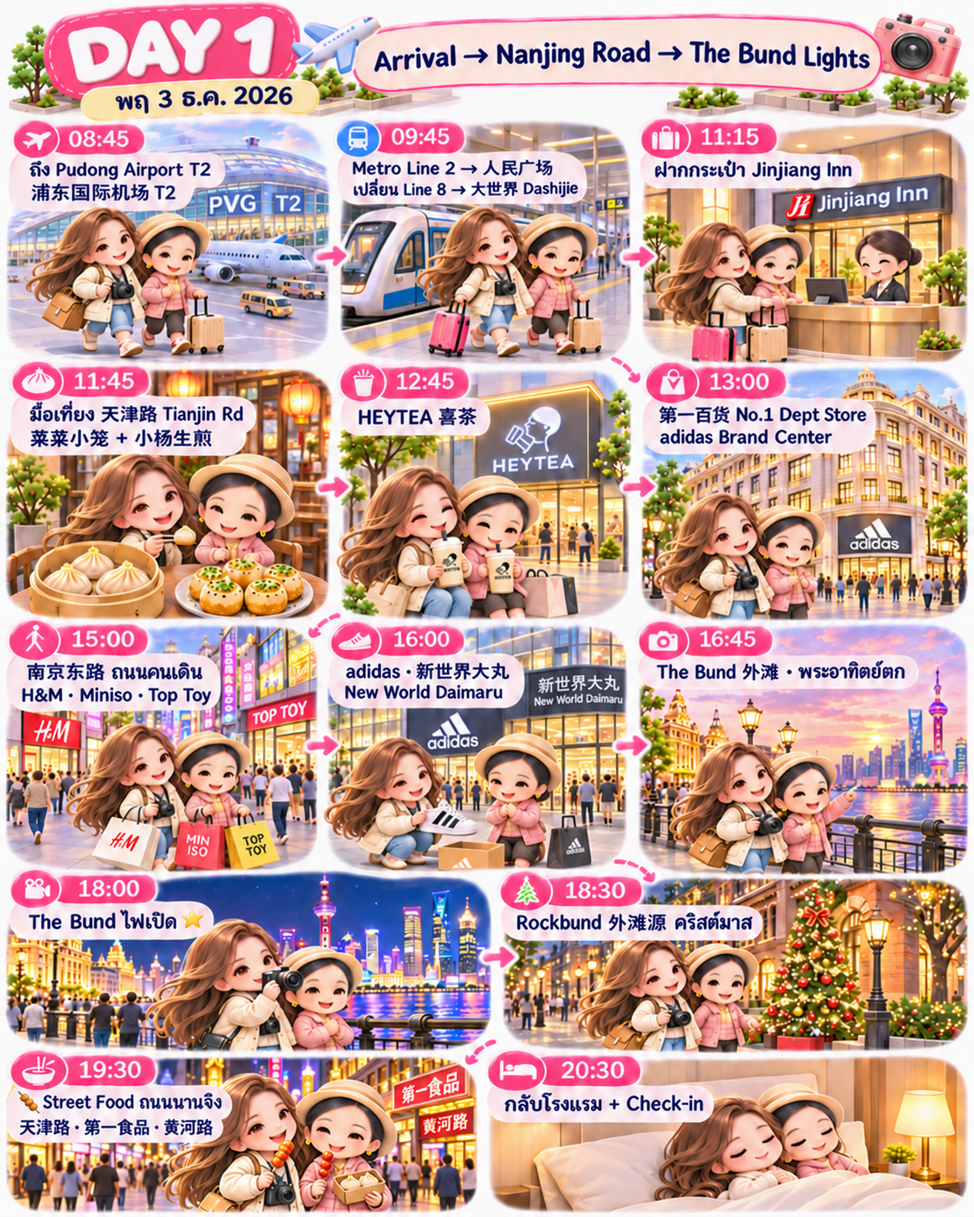
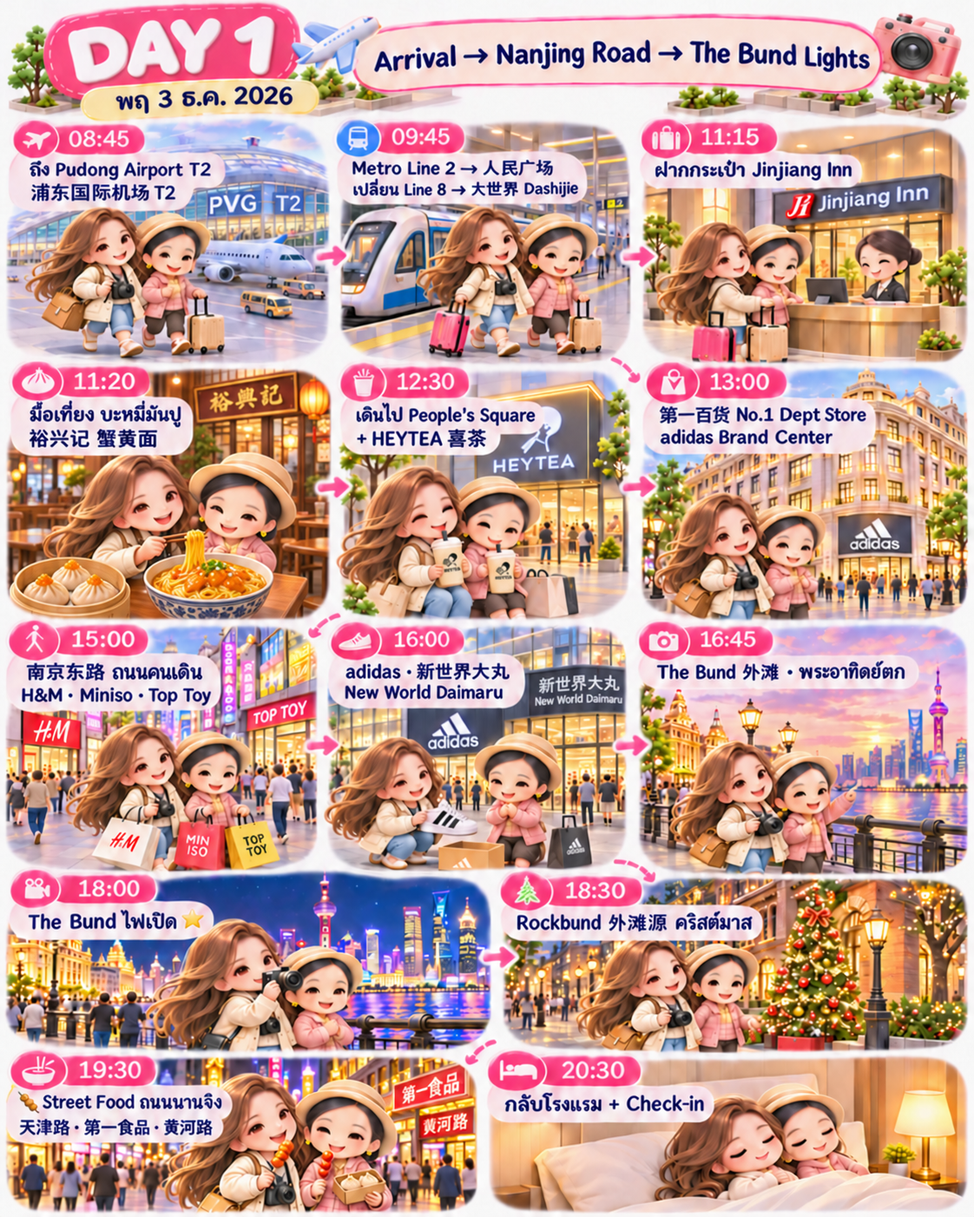
Shanghai: Day 4 seven Bund photo spots, Day 5 Opera House option + People's Square dinner, Day 1 crab noodles, Day 2 UGG, arrival-card QR (names + QR only), redraw Day 1/2/4/5
Also fix Lujiazui to People's Square stop count (2) and add Line 2/7/8 directions.

diff --git a/shanghai/index.html b/shanghai/index.html
@@ -143,6 +143,10 @@
   .foldnote[open]>summary::after{transform:rotate(180deg)}
   .foldnote>div{padding:0 12px 11px}
   .foldnote .p-note{margin-bottom:0;line-height:1.65}
+  .tmqr{display:grid;grid-template-columns:1fr 1fr;gap:10px}
+  .tmqr figure{margin:0;background:#fff;border:1px solid var(--line);border-radius:12px;padding:8px;text-align:center}
+  .tmqr img{width:100%;height:auto;display:block;cursor:zoom-in}
+  .tmqr figcaption{font-size:13px;font-weight:600;line-height:1.35;margin-top:4px}
 
   /* copy chip */
   .cp{display:inline-flex;align-items:center;gap:6px;background:var(--surface);color:var(--ink);border:1px solid var(--line);border-radius:99px;padding:6px 12px;margin:4px 6px 0 0;cursor:pointer;font-size:13px;font-weight:500}
@@ -627,22 +631,21 @@ const CARDS=[
 ];
 
 const DAYS=[
- {id:'1',tab:'DAY 1',date:'Dec 3',emoji:'✈',cardTitle:'Arrival → Tianjin Rd Food → Nanjing Road → The Bund Lights',summary:'PVG 08:45 → Jinjiang Inn → 天津路 Lunch → 第一百货 → Nanjing East Road → The Bund ไฟเปิด → Rockbund',title:'Day 1 — Dec 3 · Arrival → Tianjin Rd Food → Nanjing Road Shopping → The Bund Lights → Rockbund',route:'PVG → 大世界 → 天津路 Tianjin Rd → 第一百货 → 南京东路 → 外滩 The Bund → 外滩源 Rockbund',
+ {id:'1',tab:'DAY 1',date:'Dec 3',emoji:'✈',cardTitle:'Arrival → Tianjin Rd Food → Nanjing Road → The Bund Lights',summary:'PVG 08:45 → Jinjiang Inn → 裕兴记 บะหมี่ปู → 第一百货 → Nanjing East Road → The Bund ไฟเปิด → Rockbund',title:'Day 1 — Dec 3 · Arrival → Tianjin Rd Food → Nanjing Road Shopping → The Bund Lights → Rockbund',route:'PVG → 大世界 → 天津路 Tianjin Rd → 第一百货 → 南京东路 → 外滩 The Bund → 外滩源 Rockbund',
   slots:[
    {t:'03:20–08:45',icon:'✈',label:'Flight 9C7294',note:'BKK → PVG T2 · ออกจากบ้าน 22:00 คืนวันพุธที่ 2 ธ.ค. · เคาน์เตอร์ Spring เปิด 00:20 (3 ชม.ก่อนบิน) ไปรอหน้าเคาน์เตอร์ · เช็ค passport · นอนบนเครื่อง',places:[P('PVG T2 — Shanghai Pudong International Airport','浦东国际机场T2')]},
-   {t:'08:45–09:45',icon:'🛂',label:'ตม. + รับกระเป๋า',note:'กรอก China Arrival Card ไว้ก่อน · ซื้อซิม / เติมบัตรเมโทรที่สนามบินถ้ายังไม่มี'},
+   {t:'08:45–09:45',icon:'🛂',label:'ตม. + รับกระเป๋า',note:'✅ ลงทะเบียน ตม. ออนไลน์แล้ว (12 Nov) · ยื่นพาสปอร์ต + โชว์ QR ในใบ ตม. ด้านล่าง · ถ้าระบบไม่รับ กรอกบัตรกระดาษที่ด่านได้ · ซื้อซิม / เติมบัตรเมโทรที่สนามบินถ้ายังไม่มี',foldtitle:'🛂 ใบ ตม.',foldnote:'<div class="tmqr"><figure><img src="assets/tm_qr_dalif.png" alt="QR ใบ ตม. ดาลิฟ" onclick="zoomImg(\'assets/tm_qr_dalif.png\')"><figcaption>ดาลิฟ<br>DARINDA</figcaption></figure><figure><img src="assets/tm_qr_mom.png" alt="QR ใบ ตม. แม่" onclick="zoomImg(\'assets/tm_qr_mom.png\')"><figcaption>แม่<br>CHOLLAMARK</figcaption></figure></div><div class="muted" style="font-size:12px;margin-top:6px">แตะ QR เพื่อขยาย · ยื่นคู่กับพาสปอร์ตของแต่ละคน</div>'},
    {t:'09:45–11:10',icon:'🚇',label:'Metro · Line 2 → 徐泾东 · Line 8 → 沈杜公路',note:'浦东国际机场 Pudong Airport ขึ้น Line 2 ทิศ 徐泾东 Xujing East → ลง 人民广场 People\'s Square → เปลี่ยน Line 8 ทิศ 沈杜公路 Shendu Highway → 1 สถานี ลง 大世界 Dashijie Exit 5 · ~1 ชม. 25 นาที · มีกระเป๋า + เหนื่อย → DiDi ~1 ชม. แทนได้',places:[P('People’s Square','人民广场'),P('Dashijie','大世界')]},
    {t:'11:15',icon:'🧳',label:'ฝากกระเป๋า',note:'Check-in ได้ 14:00 · ฝากกระเป๋าที่ล็อบบี้ก่อน · ลองขอ early check-in',places:[P('Jinjiang Inn','锦江之星 云南南路293号')]},
-   {t:'11:20–11:40',icon:'🚶',label:'Walk ไปย่านกิน',note:'เดินขึ้นเหนือตาม 云南中路 Yunnan Road ข้าม 南京东路 ไป 天津路 Tianjin Road · ~1.5 กม. ~20 นาที · เหนื่อย → DiDi ~¥15 · (ย่านเดียวกับ food map เก่า — แผนที่นั้นเขียน "หลัง รร. Jinjiang Inn" หมายถึงอีกสาขา)',places:[P('Tianjin Road','天津路')]},
-   {t:'11:45–12:45',icon:'🥟',label:'Lunch ⭐ ของท้องถิ่น',img:'assets/day1-food-map.png',note:'สั่งร้านละนิดแบ่งกัน · Lailai Xiaolong Bao เสี่ยวหลงเปา + Yang\'s Fried Dumpling เซิงเจียน · ร้านสำรอง: Xie Sanbao 蟹三宝 / Autumn Flavor / Fat Girl Noodle',places:[P('Lailai Xiaolong Bao','莱莱小笼'),P('Yang’s Fried Dumpling','小杨生煎'),P('Xie Sanbao','蟹三宝')]},
-   {t:'12:45–13:00',icon:'🧋',label:'Tea',note:'ซื้อ HEYTEA แล้วเดินไปทาง People\'s Square · หรือ Chabaidao 茶百道 ในย่านเดียวกัน',places:[P('HEYTEA','喜茶')]},
+   {t:'11:20–12:30',icon:'🦀',label:'Lunch ⭐ บะหมี่มันปู',note:'裕兴记·蟹黄面馆 (大世界店) · 金陵东路500号 ชั้น 1 Yalong International Plaza · สถานี 大世界 ทางออก 5 เดิน ~4 นาที (ทางเดียวกับโรงแรม) · เปิด 09:00–21:00 · ~¥92/คน · 蟹黄面 บะหมี่มันปู (คลุกตอนร้อนๆ) · 蟹粉小笼包 เสี่ยวหลงเปาปู · 三虾面 บะหมี่กุ้ง · มีเซ็ต 2–3 คน',places:[P('裕兴记·蟹黄面馆 Yuxingji','裕兴记 蟹黄面馆 大世界店')]},
+   {t:'12:30–13:00',icon:'🧋',label:'Walk + Tea',note:'เดินขึ้นเหนือไป People\'s Square / 南京东路 ~15 นาที · แวะซื้อ HEYTEA ระหว่างทาง',places:[P('HEYTEA','喜茶')]},
    {t:'13:00–15:00',icon:'🛍',label:'Shopping ⭐ 第一百货',note:'ห้างเก่าแก่ของเซี่ยงไฮ้ เหมาะกับแม่ · 👟 Adidas ร้านที่มี Shanghai Collection — adidas Brand Center 3 ชั้น (ใหญ่สุดในเอเชียแปซิฟิก) อยู่ในห้างนี้ · ของลิมิเต็ดหมดไว เจอไซส์ที่ชอบซื้อเลย · ฝั่งตรงข้ามมี First Food Hall 第一食品 ซื้อขนมของฝาก',places:[P('Shanghai No.1 Department Store','上海市第一百货商店 南京东路800号'),P('Adidas ร้านที่มี Shanghai Collection · adidas Brand Center','阿迪达斯 南京东路800号 第一百货'),P('First Food Hall','第一食品商店')]},
    {t:'15:00–16:00',icon:'🚶',label:'Walk 南京东路 → ไปทาง Bund',note:'ถนนคนเดิน · Nanjing Road Century Square 世纪广场 · H&M flagship 4 ชั้น · Miniso Land · Top Toy',places:[P('Nanjing Road Century Square','世纪广场'),P('H&M Yuehui Plaza','悦荟广场')]},
    {t:'16:00–16:45',icon:'👟',label:'adidas ⭐',note:'หน้าห้าง 新世界大丸 New World Daimaru · ร้านติดถนนคนเดิน (AMap ระบุ F4 ถ้าไม่เจอขึ้นไปดูชั้น 4) · เปิด 10:00–22:00 · ใกล้ Bund ที่สุด ซื้อตรงนี้ไม่ต้องถือถุงนาน',places:[P('adidas · New World Daimaru','新世界大丸百货 南京东路228号')]},
    {t:'16:45–17:15',icon:'🚶',label:'Walk → The Bund',note:'เดิน ~10 นาที · หาจุดตั้งกล้องก่อน · 🌇 พระอาทิตย์ตก ~16:50 ฟ้าสีน้ำเงินหลังจากนั้นถ่ายสวย',places:[P('The Bund','外滩')]},
    {t:'~18:00',icon:'🎥',label:'The Bund ไฟเปิด ⭐',note:'อัดคอนเทนต์ช่วงไฟค่อยๆ เปิด · เวลาเปิดไฟฤดูหนาว ~18:00 (ไม่มีเวลาทางการ มาก่อน 17:15 ชัวร์สุด) · ลมริมแม่น้ำแรง ~5°C ใส่อุ่นๆ',places:[P('The Bund','外滩')]},
    {t:'18:30–19:30',icon:'🎄',label:'Rockbund คริสต์มาส',note:'ตรอกตึกอิฐสีน้ำตาล 圆明园路 Yuanmingyuan Road · เดินจาก Bund ~10 นาที · ปกติมีงานคริสต์มาส คนเยอะ · ⚠ ใกล้วันไปค้น 外滩源 圣诞 ใน Xiaohongshu ดูว่าเริ่มจัดหรือยัง',places:[P('Rockbund','外滩源'),P('Yuanmingyuan Road','圆明园路')]},
-   {t:'19:30–20:30',icon:'🍢',label:'Street Food ถนนนานจิง ⭐',note:'เดินกินเล่นทางกลับโรงแรม (แบบคลิป "ตะลุยกินสตรีทฟู้ด ถนนหนานจิง") · 天津路 Tianjin Road หลังถนนนานจิง: Lailai Xiaolongbao / Xie Sanbao / Fat Girl Noodle / Chabaidao · 第一食品 First Food Hall ขนมของฝาก · 黄河路 Huanghe Road ใกล้ People\'s Square · ปิดท้าย 云南南路 Yunnan South Road ข้างโรงแรม',places:[P('Tianjin Road','天津路'),P('First Food Hall','第一食品商店'),P('Huanghe Road Food Street','黄河路美食街')]},
+   {t:'19:30–20:30',icon:'🍢',label:'Street Food ถนนนานจิง ⭐',note:'เดินกินเล่นทางกลับโรงแรม (แบบคลิป "ตะลุยกินสตรีทฟู้ด ถนนหนานจิง") · 天津路 Tianjin Road หลังถนนนานจิง: ⭐ Lailai Xiaolongbao + Yang\'s Fried Dumpling (ย้ายมาจากมื้อกลางวัน) / Fat Girl Noodle / Chabaidao (ไม่ต้องกิน Xie Sanbao ซ้ำ — กินบะหมี่ปูตอนเที่ยงแล้ว) · 第一食品 First Food Hall ขนมของฝาก · 黄河路 Huanghe Road ใกล้ People\'s Square · ปิดท้าย 云南南路 Yunnan South Road ข้างโรงแรม',places:[P('Tianjin Road','天津路'),P('First Food Hall','第一食品商店'),P('Huanghe Road Food Street','黄河路美食街')]},
    {t:'~20:30',icon:'🏨',label:'กลับโรงแรม (+ Check-in ถ้ายังไม่ได้รับห้อง)',note:'เดินมาทั้งวัน → DiDi ~10 นาที หรือ Metro: 南京东路 East Nanjing Road ขึ้น Line 2 ทิศ 徐泾东 Xujing East → 1 สถานี ลง 人民广场 People\'s Square → เปลี่ยน Line 8 ทิศ 沈杜公路 Shendu Highway → ลง 大世界 Dashijie Exit 5',places:[P('Jinjiang Inn','锦江之星 云南南路293号')]},
   ]},
  {id:'2',tab:'DAY 2',date:'Dec 4',emoji:'🛍',cardTitle:'Wukang/Tai\'an → Anfu → Huaihai → Xintiandi',summary:'Wukang/Tai\'an (early photos + Grayfleece) → Anfu → HAUS NOWHERE → Xintiandi',title:'Day 2 — Dec 4 · Wukang/Tai\'an (early photos + Grayfleece) → Anfu → Huaihai → Xintiandi',route:'武康路 Wukang Rd → 泰安路 Tai\'an Rd → 安福路 Anfu Rd → Xintiandi',
@@ -660,7 +663,7 @@ const DAYS=[
    {t:'15:30',icon:'🏙',label:'Explore',places:[P('Youth Energy Center','')]},
    {t:'16:00',icon:'👗',label:'Shopping',note:'ตรงข้าม Youth Energy Center',places:[P('Maison Prince','')]},
    {t:'16:30',icon:'🚕',label:'Didi',note:'→ Xintiandi',places:[P('Xintiandi','新天地')]},
-   {t:'18:00',icon:'🌆',label:'Explore',places:[P('Xintiandi','新天地')]},
+   {t:'18:00',icon:'🌆',label:'Explore + UGG 👢',note:'👢 แวะ UGG Flagship แห่งแรกในจีน (3 ชั้น · ชั้น 2 รองเท้าคลาสสิก/รุ่นใหม่ · ชั้น 3 ของร่วมดีไซเนอร์จีน) · ค้น AMap: UGG 新天地 (เช็คว่ายังเปิดอยู่ · หน้าหนาวไซส์หมดไว เทียบราคาไทยก่อนซื้อ)',places:[P('Xintiandi','新天地'),P('UGG Flagship Xintiandi','UGG 新天地')]},
    {t:'18:30',icon:'🍜',label:'Dinner + Shopping',places:[P('Xintiandi','新天地')]},
    {t:'21:00',icon:'🚇',label:'Metro · Line 10 → 基隆路 Jilong Road',note:'Xintiandi → Laoximen · เปลี่ยน Line 8 → 市光路 → Dashijie',places:[P('Laoximen','老西门'),P('Dashijie','大世界')]},
    {t:'~21:30',icon:'🏨',label:'Hotel',places:[P('Jinjiang Inn','锦江之星 云南南路293号')]},
@@ -689,11 +692,15 @@ const DAYS=[
   ]},
  {id:'4',tab:'DAY 4',date:'Dec 6',emoji:'🛕',cardTitle:'Bund Morning → Longtime Ago → Longhua → Jing’an → Yuyuan',summary:'Bund ช่วงเช้า → Longtime Ago → Longhua → Jing’an → West Nanjing → Yuyuan',title:'Day 4 — Dec 6 · Bund Morning → Longtime Ago → Longhua → Jing’an → West Nanjing → Zhangyuan → Yuyuan',route:'外滩 Bund ช่วงเช้า → 第一百货 Longtime Ago → Longhua 龙华 → Jing’an → Yuyuan 豫园',
   slots:[
-   {t:'07:30',icon:'🚶',label:'ออกจากโรงแรม',note:'แต่งตัวอุ่นๆ: เสื้อคลุม + ผ้าพันคอ + ถุงมือ · เดิน Jinjiang Inn → 外滩 The Bund ~20 นาที (ฝั่ง 南京东路 East Nanjing Road) · ไม่ต้องตื่นดูพระอาทิตย์ขึ้น',places:[P('The Bund','外滩')]},
-   {t:'08:00–09:00',icon:'📸',label:'The Bund ช่วงเช้า ⭐',note:'แดดเช้าส่องตึกเก่าฝั่ง Bund สวยสุดของวัน (ถ่ายคน+ตึกไม่ย้อนแสง) · 和平饭店 Peace Hotel · 海关大楼 Customs House หอนาฬิกา · 汇丰银行 HSBC Building · วันอาทิตย์เช้าคนยังน้อย',img:'assets/day4-shoothing Location.png',places:[P('外滩 The Bund',''),P('和平饭店 Peace Hotel',''),P('海关大楼 Customs House','')]},
-   {t:'09:00–09:45',icon:'📸',label:'Photo',note:'外白渡桥 Waibaidu Bridge สะพานเหล็ก → 外滩源 Rockbund โบสถ์อิฐแดง / ตรอก 圆明园路 (ถ้าประดับคริสต์มาสแล้ว ตอนเช้าไม่มีคนบัง) → 乍浦路桥 Zhapu Road Bridge',places:[P('外白渡桥 Waibaidu Bridge',''),P('外滩源 Rockbund','圆明园路')]},
-   {t:'09:45–10:30',icon:'☕',label:'Cafe / พักขา',note:'นั่งพักคาเฟ่แถว 外滩源 Rockbund · ☕ 沩 flower coffee bar (ใกล้ 乍浦路桥 · เช็คเวลาเปิดใน AMap) · กินเบาๆ เก็บท้องไว้มื้อเที่ยง · 🔴 แม่เหนื่อย → เดินกลับพักโรงแรมก่อนได้'},
-   {t:'10:30–10:55',icon:'🚶',label:'Walk → 第一百货',note:'เดิน 南京东路 East Nanjing Road ถนนคนเดิน ~1.5 กม. ~20–25 นาที → ห้าง 第一百货 ตึก B ชั้น 6 · ไปรอหน้าร้านก่อนเปิด',places:[P('Shanghai No.1 Department Store','上海市第一百货商店 南京东路800号')]},
+   {t:'07:30',icon:'🚶',label:'ออกจากโรงแรม',note:'แต่งตัวอุ่นๆ: เสื้อคลุม + ผ้าพันคอ + ถุงมือ · เดิน Jinjiang Inn → 外滩 The Bund ~20 นาที · วันนี้เก็บ 7 มุมถ่ายรูปยอดฮิต Bund (ตามโพสต์เพจเซี่ยงไฮ้ก็แค่ปากซอย)',places:[P('The Bund','外滩')]},
+   {t:'08:00–08:45',icon:'📸',label:'③ จุดชมวิว Bund ⭐',note:'外滩观景平台 · วิว Lujiazui เต็มๆ · แดดเช้าส่องตึกเก่าฝั่ง Bund สวยสุด · 和平饭店 Peace Hotel · 海关大楼 Customs House · 汇丰银行 HSBC',img:'assets/day4-shoothing Location.png',places:[P('外滩观景平台 The Bund Viewing Platform','外滩观景平台'),P('和平饭店 Peace Hotel','')]},
+   {t:'08:45–09:00',icon:'📸',label:'④ อนุสาวรีย์วีรชน',note:'人民英雄纪念塔 · ปลายเหนือ Bund · ถ่ายกับ "สามตึกดัง" 上海三件套 พื้นที่โล่ง จัดเฟรมง่าย',places:[P('人民英雄纪念塔 People’s Heroes Monument','人民英雄纪念塔')]},
+   {t:'09:00–09:20',icon:'📸',label:'Waibaidu → Rockbund',note:'外白渡桥 Waibaidu Bridge สะพานเหล็ก → 外滩源 Rockbund โบสถ์อิฐแดง / ตรอก 圆明园路',places:[P('外白渡桥 Waibaidu Bridge',''),P('外滩源 Rockbund','圆明园路')]},
+   {t:'09:20–09:50',icon:'📸',label:'⑤ พิพิธภัณฑ์ไปรษณีย์ ⭐',note:'上海邮政博物馆 · ข้าม Suzhou Creek · มุมดัง: ถ่ายผ่านซุ้มประตูใหญ่ให้หอไข่มุก 东方明珠 อยู่กลางกรอบ · เข้าฟรี · เปิด 09:00–17:00 เฉพาะ พ./พฤ./ส./อา. (วันนี้วันอาทิตย์ ✅)',places:[P('上海邮政博物馆 Shanghai Postal Museum','上海邮政博物馆')]},
+   {t:'09:50–10:15',icon:'📸',label:'⑥ มุมสามตึก (ตัดได้)',note:'长治路与九龙路交叉口 · เดินไปทางตะวันออก ~15 นาที · วิว "สามตึกดัง" 上海三件套 แบบใกล้ๆ · 🔴 (ตัดได้) แม่ล้า → ข้ามไปพักคาเฟ่แถว Rockbund แทน',places:[P('长治路与九龙路交叉口','长治路与九龙路交叉口')]},
+   {t:'10:15–10:25',icon:'🚕',label:'Didi',note:'长治路九龙路 → 沙美大楼 Shamei Building · ~10 นาที',places:[P('沙美大楼 Shamei Building','沙美大楼')]},
+   {t:'10:25–10:35',icon:'📸',label:'① Shamei Building',note:'沙美大楼 · อาคารเซี่ยงไฮ้คลาสสิก ต้นถนน 北京东路 · ถ่ายจากข้างนอก (Afternoon tea บนดาดฟ้าเปิดสาย)',places:[P('沙美大楼 Shamei Building','沙美大楼')]},
+   {t:'10:35–11:00',icon:'🚶',label:'② เดินถนนปักกิ่ง → 第一百货',note:'北京东路 Beijing East Road · ตึกเก่าสไตล์ Old Shanghai ผสมตึกใหม่ (แทนการเดิน 南京东路) · เดินไปทางตะวันตกจนถึง 西藏中路 แล้วเลี้ยวไป 第一百货 ~2 กม. · เดินไม่ทัน 11:00 → DiDi ช่วงท้าย',places:[P('北京东路 Beijing East Road','北京东路'),P('Shanghai No.1 Department Store','上海市第一百货商店 南京东路800号')]},
    {t:'11:00–12:00',icon:'🍢',label:'Lunch ⭐ Longtime Ago',note:'很久以前羊肉串 (南京路第一百货店) · 第一百货 ตึก B ชั้น 6 · เปิด 11:00 ไปตอนเปิดคิวสั้น (ตอนเย็นคิวเกิน 200) · ~¥99/คน · เนื้อแกะเสียบไม้ ผักย่าง ข้าวโพดหวาน · ⚠ เช็คเวลาเปิดใน AMap/Dianping ก่อนไป',places:[P('很久以前羊肉串 Longtime Ago','很久以前羊肉串 南京路第一百货店')]},
    {t:'12:15–13:00',icon:'🚇',label:'Metro → Longhua',note:'人民广场 People\'s Square ขึ้น Line 1 ทิศ 莘庄 Xinzhuang → 5 สถานี ลง 徐家汇 Xujiahui → เปลี่ยน Line 11 ทิศ 迪士尼 Disney Resort → 2 สถานี ลง 龙华 Longhua · ~30–40 นาที · ยืนยันใน AMap · หรือ DiDi',places:[P('People’s Square','人民广场'),P('Longhua','龙华')]},
    {t:'13:00–14:00',icon:'🛕',label:'Longhua',note:'วัดหลงหัว + เจดีย์ · ถ่ายรูป',places:[P('Longhua Temple','龙华寺')]},
@@ -724,14 +731,15 @@ const DAYS=[
    {t:'13:55–15:30',icon:'🛍',label:'City Walk ⭐ 巨富长 Julu · Fumin · Changle',note:'(กิน New Sukiyaki แล้ว ไม่ต้องแวะกินข้าวเที่ยง Junfu Canteen) · เดินลงใต้ตาม 富民路 Fumin Road (เลขที่เพิ่มขึ้นเรื่อยๆ) → แยก 巨鹿路 Julu Road → จบที่ 长乐路 Changle Road · แตะ note ดูหมุดครบ 8 จุด',places:[P('Julu Road','巨鹿路'),P('Fumin Road','富民路'),P('Changle Road','长乐路')],foldnote:'<b>巨富长 Julu × Fumin × Changle</b> — เดินลงใต้ตาม 富民路 Fumin Road เลขที่เพิ่มขึ้นเรื่อยๆ<br><br>① <b>富民路38号 Suzie\'s Garden</b> — ไวน์บาร์ + เบเกอรี่ · เปิด 11:30<br>② <b>富民路83-3号 MEL BOURNE 猫尔本</b> — บรันช์คาเฟ่ ถ่ายรูปหน้าร้าน · เปิด 10:00–22:00 · ~¥154/คน<br>③ <b>แยก 巨鹿路 Julu Road</b> — เลี้ยวเดินเล่นถ่ายรูปสั้นๆ แล้วกลับมา 富民路 Fumin Road<br>④ <b>富民路160号 旬福食堂 Junfu Canteen</b> — 🍜 ข้าวเที่ยง แกงกะหรี่ซุปฮอกไกโด · ⚠ คิวยาว รอเกิน 20 นาทีเปลี่ยนร้าน<br>⑤ <b>富民路184号 LABELHOOD 蕾虎</b> — ร้านรวมแบรนด์ดีไซเนอร์จีน 4 ชั้น<br>⑥ <b>富民路 保罗花园 Paul Garden</b> — ANNAKIKI ร้านแฟล็กชิป<br>⑦ <b>富民路210弄 SLAB TOWN 石板城咖啡</b> — คาเฟ่ในวิลล่าเก่า หัวมุม 长乐路 Changle Road · แวะพักขาก่อนเดินต่อ<br>⑧ <b>เลี้ยวเดิน 长乐路 Changle Road</b>'},
    {t:'15:30–15:45',icon:'🚶',label:'Walk',note:'จาก 长乐路 Changle Road → ค้น AMap 「衡山路8号」 Hengshan Rd. No.8 · เดินลงใต้ข้าม 淮海中路 Middle Huaihai Road ~20 นาที'},
    {t:'15:45–16:25',icon:'🍁',label:'City Walk 衡山路',note:'衡山路 Hengshan Road เดินลงใต้ไปเรื่อยๆ: ① 衡山路8号 Hengshan Rd. No.8 → ② 永平里 Yongpingli (ดังเรื่องกุหลาบ ธันวาไม่บาน) → ③ 衡山坊 Hengshan Fang · ⏳ ถ้าแม่ล้า: เดินถึง 永平里 Yongpingli พอ แล้วเรียก DiDi ไป 思南公馆 Sinan Mansions',places:[P('Hengshan Road','衡山路')]},
-   {t:'16:25–16:45',icon:'🚇',label:'Metro',note:'ขึ้นที่ 衡山路 Hengshan Road Line 1 ทิศ 富锦路 Fujin Road → 2 สถานี ลง 陕西南路 Shaanxi South Road → เปลี่ยน Line 10 ทิศ 基隆路 Jilong Road → 1 สถานี ลง 新天地 Xintiandi · ยืนยันใน AMap · เดินต่อไป Sinan ~10 นาที (หรือ DiDi ~10 นาที)',places:[P('Hengshan Road','衡山路'),P('Xintiandi','新天地')]},
-   {t:'16:50–17:20',icon:'📸',label:'Sinan Mansions ⭐',note:'复兴中路 Middle Fuxing Road / 思南路 Sinan Road · บ้านวิลล่าอิฐแดงยุค 1920s · 🌇 อาทิตย์ตก ~16:50 · เดินจากสถานี 新天地 Xintiandi ~10 นาที',places:[P('思南公馆 Sinan Mansions','思南路')]},
+   {t:'16:25–16:45',icon:'🚇',label:'Metro (หรือ 🎭 Opera House ตัดได้)',note:'🎭 ทางเลือก (ตัดได้): ไปถ่ายรูปตึก 上海大歌剧院 Shanghai Grand Opera House จากข้างนอก (ฟรี ไม่ต้องจอง · ตึกรูปพัดจีน สวยสุดช่วงพระอาทิตย์ตก/ไฟเปิด) แทน Sinan → เดินไปสถานี 常熟路 Changshu Road → Line 7 ทิศ 花木路 Huamu Road สายเดียวไป 后滩 Houtan ทางออก 4 เดิน ~860 ม. · ถ่ายรูปริมแม่น้ำ ~17:00–17:40 · เสร็จแล้ว DiDi ไป 陆家嘴 Lujiazui ~20 นาที (ข้ามช่วงพักโรงแรม) · ไม่ทัน/เหนื่อย → ไป Sinan ตามเดิม ▸ เส้นทางเดิม: ขึ้นที่ 衡山路 Hengshan Road Line 1 ทิศ 富锦路 Fujin Road → 2 สถานี ลง 陕西南路 Shaanxi South Road → เปลี่ยน Line 10 ทิศ 基隆路 Jilong Road → 1 สถานี ลง 新天地 Xintiandi · ยืนยันใน AMap · เดินต่อไป Sinan ~10 นาที (หรือ DiDi ~10 นาที)',places:[P('Hengshan Road','衡山路'),P('Xintiandi','新天地')]},
+   {t:'16:50–17:20',icon:'📸',label:'Sinan Mansions ⭐',note:'(ถ้าไป Opera House → ข้ามช่วงนี้) · 复兴中路 Middle Fuxing Road / 思南路 Sinan Road · บ้านวิลล่าอิฐแดงยุค 1920s · 🌇 อาทิตย์ตก ~16:50 · เดินจากสถานี 新天地 Xintiandi ~10 นาที',places:[P('思南公馆 Sinan Mansions','思南路')]},
    {t:'17:20–17:35',icon:'🚕',label:'Didi',note:'思南公馆 Sinan Mansions → Jinjiang Inn · ~10 นาที',places:[P('Jinjiang Inn','锦江之星 云南南路293号')]},
    {t:'17:35–17:45',icon:'🏨',label:'Rest',note:'พักโรงแรม · วางถุงช้อป'},
    {t:'17:50',icon:'🚇',label:'Metro',note:'ขึ้นที่ 大世界 Dashijie → ลงที่ 陆家嘴 Lujiazui · 2 สถานี ไม่ต้องเปลี่ยนสาย',places:[P('Dashijie','大世界'),P('Lujiazui','陆家嘴')]},
-   {t:'18:05–19:30',icon:'🌃',label:'Night View',note:'ไฟเปิดครบ · เดิน skywalk วงแหวน ถ่าย skyline · Shanghai Tower / Jin Mao Tower / Oriental Pearl 东方明珠 — ไม่ต้องขึ้นตึก เดินถ่ายรูปพอ',places:[P('陆家嘴 Lujiazui','')]},
-   {t:'19:30–20:30',icon:'🍜',label:'Dinner',note:'ฟู้ดคอร์ท · 💡 ถ้าราคาสูงไป กลับไปกินแถวโรงแรม 云南南路 South Yunnan Road ก็ได้ · 🍢 ทางเลือก: แม่อยากเดินสตรีทฟู้ดอีกรอบ → Line 2 陆家嘴 → 南京东路 1 สถานี เดินกินถนนนานจิง / 天津路 แล้วเดินกลับโรงแรม',places:[P('正大广场 Super Brand Mall','')]},
-   {t:'20:45',icon:'🚇',label:'Metro',note:'ขึ้นที่ 陆家嘴 Lujiazui → ลงที่ 大世界 Dashijie · 2 สถานี',places:[P('Lujiazui','陆家嘴'),P('Dashijie','大世界')]},
+   {t:'18:05–19:15',icon:'🌃',label:'Night View',note:'ไฟเปิดครบ · เดิน skywalk วงแหวน ถ่าย skyline · Shanghai Tower / Jin Mao Tower / Oriental Pearl 东方明珠 — ไม่ต้องขึ้นตึก เดินถ่ายรูปพอ',places:[P('陆家嘴 Lujiazui','')]},
+   {t:'19:15–19:30',icon:'🚇',label:'Metro · Line 2',note:'陆家嘴 Lujiazui ขึ้น Line 2 ทิศ 徐泾东 Xujing East → 2 สถานี (南京东路 → 人民广场) ลง 人民广场 People\'s Square · ทางกลับโรงแรมอยู่แล้ว เปลี่ยน Line 8 ที่นี่',places:[P('Lujiazui','陆家嘴'),P('People’s Square','人民广场')]},
+   {t:'19:30–20:30',icon:'🐟',label:'Dinner ⭐ 酸菜鱼',note:'ร้านอาหารจีนหัวมุม ในทางเดินใต้ดินสถานี 人民广场 ใกล้ทางออก 11 (ทางออกไปร้านขนมปังผีเสื้อคิวยาว) · 🐟 酸菜鱼 ต้มปลาผักกาดดอง ~¥30 · 青椒肉丝 หมูผัดพริกหยวก · เมนู ¥12–28 · ร้านไม่มีชื่อในโพสต์ ใช้รูปหา · ร้านในสถานีอาจปิด ~21:00 ไปก่อน 20:00 · (สำรอง: ฟู้ดคอร์ท 正大广场 Super Brand Mall / เดินกินถนนนานจิง)',places:[P('People’s Square Exit 11','人民广场 11号口')]},
+   {t:'20:45',icon:'🚇',label:'Metro · Line 8',note:'人民广场 People\'s Square ขึ้น Line 8 ทิศ 沈杜公路 Shendu Highway → 1 สถานี ลง 大世界 Dashijie Exit 5 (หรือเดิน ~15 นาที)',places:[P('People’s Square','人民广场'),P('Dashijie','大世界')]},
    {t:'~21:00',icon:'🏨',label:'Hotel',note:'เก็บกระเป๋าให้เสร็จคืนนี้ พรุ่งนี้ออก 07:00',places:[P('Jinjiang Inn','锦江之星 云南南路293号')]},
   ]},
  {id:'6',tab:'DAY 6',date:'Dec 8',emoji:'🛫',cardTitle:'Check-out → PVG T2 → BKK',summary:'Check-out → PVG T2 · 9C7283',title:'Day 6 — Dec 8 · Check-out → PVG T2 → BKK',route:'大世界 → PVG T2 → BKK',
@@ -746,6 +754,7 @@ const DAYS=[
 
 const FOOD={
   '1':{tab:'D1 · 3 ธ.ค.',area:"People's Square / 南京东路 / The Bund",items:[
+    {name:'裕兴记·蟹黄面馆 Yuxingji (大世界店)',zh:'裕兴记 蟹黄面馆 大世界店',where:'金陵东路500号 ชั้น 1 · สถานี 大世界 ทางออก 5 เดิน 4 นาที (ใกล้โรงแรม)',hours:'09:00–21:00',link:'https://surl.amap.com/1nPvl2S1o6N3',note:'✅ อยู่ในแพลนหลักแล้ว: Day 1 มื้อเที่ยง · บะหมี่มันปู ~¥92/คน · มีเซ็ต 2–3 คน',tag:'มื้อเที่ยง ⭐'},
     {name:'蘿春閣 Luo Chun Ge (1920)',zh:'萝春阁',where:"ย่าน People's Square · เดินจาก People's Square ~10 นาที",link:'https://surl.amap.com/g1r5p741a7lP',note:'ร้านเก่าแก่ตั้งแต่ 1920 เพิ่งกลับมาเปิดใหม่ 2026 · บะหมี่มันปู ¥158 (แบ่งกิน 2–3 คน) · เซิงเจียน/เสี่ยวหลงเปา 4 ชิ้น ¥29 · แนะนำมื้อเย็นขากลับจาก Bund: Line 2 南京东路 → 人民广场 1 สถานี กินแล้วกลับโรงแรมใกล้ · เช็คเวลาปิดใน AMap',tag:'มื้อเย็น ⭐'},
     {name:'牛New寿喜烧 New Sukiyaki',zh:'牛New寿喜烧 上海市第一百货',where:'ในห้าง 上海市第一百货 (南京东路800号)',note:'ทานระหว่างช้อปที่ 第一百货 ได้ · คิวยาวช่วงเสาร์อาทิตย์ เช็ค Dianping',tag:'มื้อเที่ยง/เย็น'},
     {name:'很久以前羊肉串 Longtime Ago (南京路第一百货店)',zh:'很久以前羊肉串 南京路第一百货店',where:'ห้างเดียวกับ 第一百货',note:'✅ สาขานี้อยู่ในแพลนหลักแล้ว: Day 4 11:00 (ไปตอนเปิด คิวสั้น) · เนื้อแกะเสียบไม้ · ตอนเย็นคิวเกิน 200 → กดคิวใน WeChat ค้น "很久以前羊肉串" → 排队订座',tag:'มื้อเย็น'},
@@ -765,12 +774,14 @@ const FOOD={
     {name:'上海老饭店 Old Shanghai Restaurant',zh:'上海老饭店',where:'ย่าน Yuyuan',note:'สำรองถ้าคิว Nanxiang ยาวเกิน',verify:true,tag:'สำรองมื้อเย็น'}
   ]},
   '5':{tab:'D5 · 7 ธ.ค.',area:'1000 Trees / 巨富长 / Hengshan / Sinan / Lujiazui',items:[
+    {name:'ร้านอาหารจีนใต้ดิน 人民广场 ทางออก 11',zh:'人民广场 11号口',where:'ทางเดินใต้ดินสถานี 人民广场 People\'s Square ใกล้ทางออก 11 · ร้านหัวมุม',note:'✅ อยู่ในแพลนหลักแล้ว: Day 5 มื้อเย็น · 🐟 酸菜鱼 ต้มปลาผักกาดดอง ~¥30 · 青椒肉丝 หมูผัดพริกหยวก · ราคา ¥12–28 · บริการดี เปิดเพลงไทย (ตามโพสต์) · ไม่มีชื่อร้าน ใช้รูปหา',tag:'มื้อเย็น ⭐'},
     {name:'🛍 adidas Outlet 阿迪达斯(一频道折扣店)',zh:'阿迪达斯 一频道折扣店 巴黎春天陕西路店',where:'长寿路155号 巴黎春天(陕西路店) 4F',note:'ร้านลดราคา · เข้าประตู 东北1门 เดินตรง 20m ขึ้นบันไดเลื่อน · หลัง 1000 Trees ช่วง 11:15–12:30 · ต่อ Line 7 长寿路 → 常熟路 ไม่ต้องเปลี่ยนสาย',tag:'ช้อป'},
     {name:'新发现 New Found',zh:'新发现',note:'อาหารหางโจว รสไม่จัด เหมาะกับแม่ · ส่วนใหญ่อยู่ในห้าง · สำรองมื้อเย็นแทนฟู้ดคอร์ท Super Brand Mall',tag:'สำรองมื้อเย็น'},
     {name:'大米先生 Da Mi Xian Sheng',zh:'大米先生',note:'สำรองมื้อเย็นเหมือนกัน (ถ้าราคา Super Brand Mall สูงไป)',tag:'สำรอง'}
   ]},
   '6':{tab:'D6 · 8 ธ.ค.',area:'Airport',empty:'ไม่มี — เช้าไปสนามบิน',items:[]},
   'all':{tab:'ทุกวัน',area:'ร้านเครือ หลายสาขา',hint:'ค้น AMap แล้วเลือก "附近" ใกล้ที่สุด',items:[
+    {name:'酸菜鱼 ต้มปลาผักกาดดอง',zh:'酸菜鱼',note:'ปลาต้มผักกาดดองสไตล์เสฉวน (ซุปเปรี้ยวๆ เผ็ดเลือกระดับได้ — สั่ง 不辣 ไม่เผ็ด) · ร้านเครือดัง: 太二酸菜鱼 / 鱼你在一起 · ค้น AMap "酸菜鱼" แล้วเลือก 附近 ใกล้ที่สุด · เหมาะมื้อเย็นที่ยังว่าง'},
     {name:'巴比馒头 Babi Mantou',zh:'巴比馒头',hours:'ส่วนใหญ่เปิดเช้า',note:'ซาลาเปาเครือราคาถูก มีเกือบทุกหัวมุม · มื้อเช้าเร็วๆ ใกล้โรงแรม (เช่น Day 2 ก่อนออก 07:00 / Day 5 มื้อเช้า) · ซื้อถือไปกินได้'},
     {name:'大米先生 Da Mi Xian Sheng',zh:'大米先生',hours:'ส่วนใหญ่ 10:00–21:00 (กินเช้าไม่ได้)',note:'ข้าวราดแกงจีน หยิบกับข้าวใส่ถาด สแกนจ่ายด้วย AI · ข้าวเติมได้ไม่อั้น น้ำชาฟรี · แนะนำ 青椒肉丝 หมูผัดพริกหยวก'},
     {name:'周骏牛肉串 Zhou Jun',zh:'周骏牛肉串',hours:'17:00–03:00',note:'เนื้อวัวเสียบไม้ปิ้ง · มื้อเย็น/มื้อดึก'},
@@ -933,7 +944,7 @@ function bodyFor(s){
   if(s.img)h+=`<img class="slotimg" src="${s.img}" loading="lazy" alt="แผนที่ร้านอาหาร" onclick="zoomImg('${s.img}')" onerror="this.style.display='none';if(this.nextElementSibling)this.nextElementSibling.style.display='none'"><div class="maphint">🗺 แตะรูปเพื่อดูเต็ม</div>`;
   if(s.map)h+=renderMap()+'<div class="maphint">↔ เลื่อนซ้าย-ขวาดูแผนที่ · แตะร้านในลิสต์ด้านล่างเพื่อเช็ค</div>';
   if(s.places&&s.places.length)h+=`<div>${s.places.map(cpChip).join('')}</div>`;
-  if(s.foldnote)h+=`<details class="foldnote"><summary>📝 note</summary><div class="p-note" style="margin-top:8px">${s.foldnote}</div></details>`;
+  if(s.foldnote)h+=`<details class="foldnote"><summary>${s.foldtitle||'📝 note'}</summary><div class="p-note" style="margin-top:8px">${s.foldnote}</div></details>`;
   if(s.check)h+=s.check.map((t,i)=>{const k=s.cprefix+'-'+i;return `<div class="citem ${state[k]?'on':''}" onclick="tgCheck('${k}',this)"><span class="cbox">${CHK}</span><span>${t}</span></div>`;}).join('');
   return h||'<div class="p-note">—</div>';
 }
